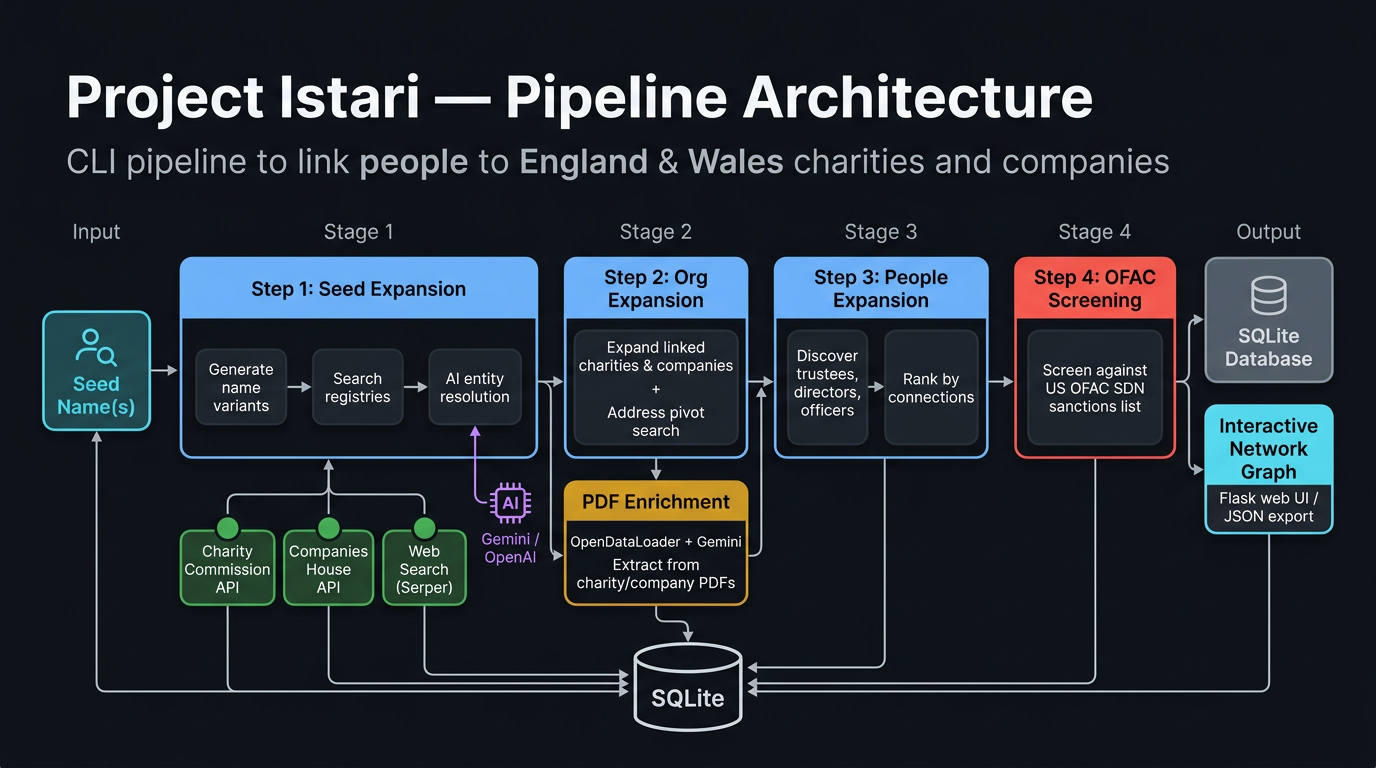
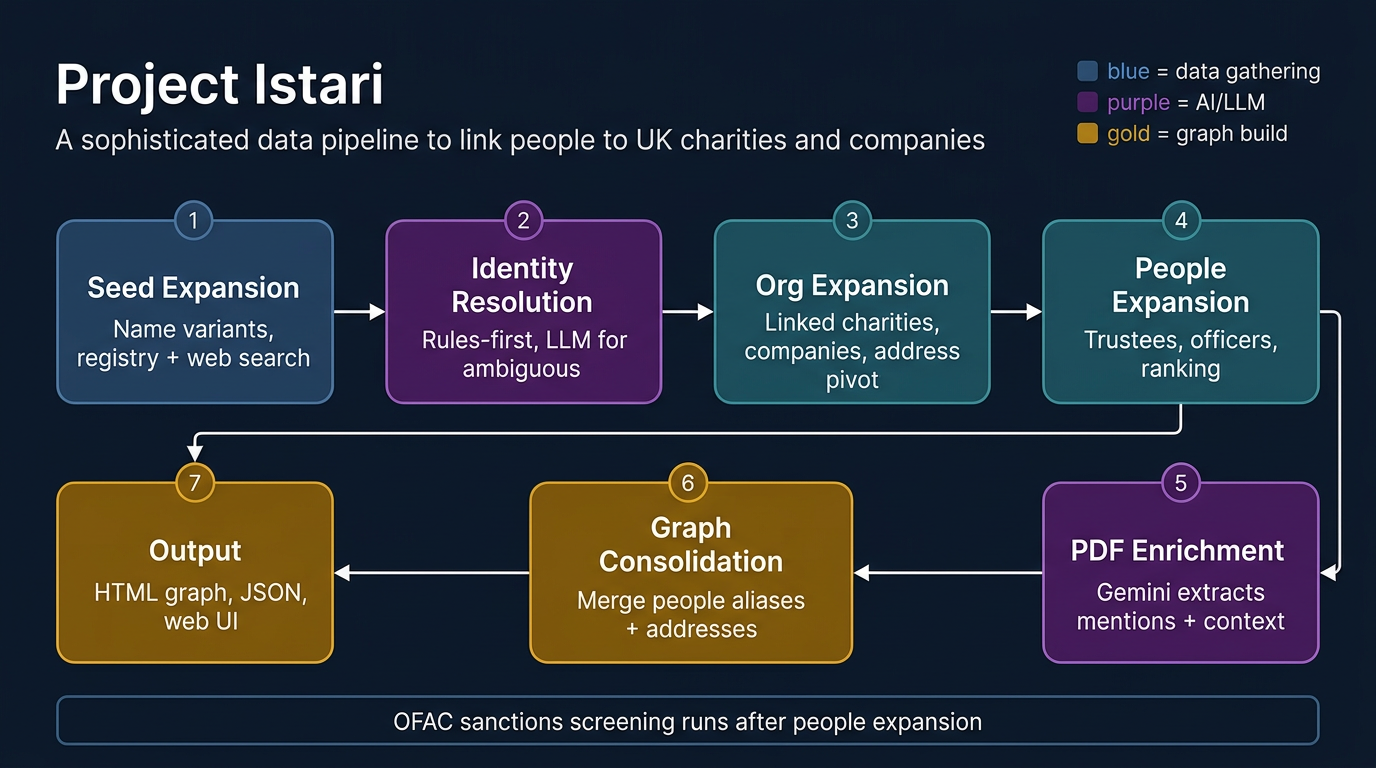
improved architecture diagram

diff --git a/README.md b/README.md
@@ -6,32 +6,38 @@ Given one or more **seed names**, Istari searches UK public registries, resolves
 
 ## Architecture
 
-![Pipeline Architecture](docs/architecture.svg)
+![Pipeline Architecture](docs/architecture.png)
 
-### Pipeline stages
+### How it works
 
-| Stage | What happens |
-|---|---|
-| **Step 1 — Seed Expansion** | Generate name variants from the seed, search the Charity Commission API, Companies House API, and web (Serper). A rules-first entity-resolution layer uses Gemini / OpenAI only for ambiguous candidates. |
-| **Step 2 — Org Expansion** | Walk linked charities and companies outward from Step 1 matches. An address-pivot search finds additional organisations registered at the same addresses. |
-| **Step 2b — PDF Enrichment** | Download charity/company PDFs (annual reports, accounts) and extract structured data via OpenDataLoader + Gemini, including connection phrasing and explanatory detail for mentions. |
-| **Step 3 — People Expansion** | Discover trustees, directors, secretaries, and officers for every scoped organisation. Rank people by the number and weight of their connections. |
-| **Step 4 — OFAC Screening** | Screen the ranked people list against the US Treasury OFAC SDN sanctions list. |
+1. **Seed Expansion** — Generate spelling and transliteration variants of the seed name, then search the Charity Commission, Companies House, and the web (Serper) for registry evidence.
 
-### Data sources & services
+2. **Identity Resolution** — Score each candidate match deterministically. Ambiguous mid-range candidates are sent to an LLM (Gemini or OpenAI) for a same-person judgement. Officers are keyed on name + birth month/year so distinct people with the same name stay separate.
 
-- **Charity Commission for England & Wales** — charity search, details, linked entities
-- **Companies House** — officer search, company profiles, appointments
-- **Gemini / OpenAI** — entity resolution, PDF extraction, name-variant generation
+3. **Org Expansion** — Walk linked charities and companies outward from confirmed matches. An address-pivot search discovers additional organisations registered at the same physical addresses.
+
+4. **People Expansion** — Pull trustees, directors, secretaries, and officers for every scoped organisation. People are ranked by the number and weight of their connections.
+
+5. **PDF Enrichment** — Download charity/company PDFs (annual reports, accounts) and extract structured mentions via Gemini, including the connection phrase and explanatory detail for each mention.
+
+6. **Graph Consolidation** — Merge person aliases and equivalent addresses across runs so shared edges collapse onto common nodes. Address merging uses deterministic normalisation first, with an LLM fallback for ambiguous near-matches.
+
+7. **Output** — Serve an interactive 4-lane HTML network graph, export JSON for the Netlify viewer, and screen ranked people against the OFAC SDN sanctions list.
+
+### Data sources
+
+- **Charity Commission for England & Wales** — charity search, trustee details, linked entities
+- **Companies House** — officer search, company profiles, appointments, date of birth
+- **Gemini / OpenAI** — entity resolution, address resolution, PDF extraction
 - **Serper** — web search for supplementary evidence
-- **OFAC SDN list** — sanctions screening
+- **OFAC SDN list** — US Treasury sanctions screening
 
 ### Storage & output
 
-- **SQLite** — all entities, relationships, resolution decisions, and run metadata
-- **Flask web UI** — serves an interactive network graph at `localhost:5000`
+- **SQLite** — entities, relationships, resolution decisions, and run metadata
+- **Flask web UI** — interactive network graph at `localhost:5000`
 - **JSON export** — graph payload for the Netlify viewer
-- **Graph rebuild** — merges person aliases and equivalent addresses across runs so shared edges collapse onto common nodes
+- **Graph rebuild** — cross-run merge of people and addresses into a single combined graph
 
 ## Quick start
 
@@ -58,18 +64,18 @@ python -m src.cli web-ui
 python scripts/rebuild_graph.py
 ```
 
-## CLI commands
+## CLI reference
 
 | Command | Description |
 |---|---|
 | `init-db` | Create the SQLite schema |
-| `step1-seed NAME` | Expand a single seed name |
-| `step2-orgs RUN_ID` | Expand connected organisations |
-| `pdf-enrich RUN_ID` | Enrich from charity/company PDFs |
-| `step3-people RUN_ID` | Expand connected people |
-| `step4-ofac RUN_ID` | OFAC sanctions screening |
 | `run-name NAME` | Full pipeline for one seed |
 | `run-seeds NAME [NAME ...]` | Full pipeline per seed + overlap |
+| `step1-seed NAME` | Seed expansion only |
+| `step2-orgs RUN_ID` | Org expansion only |
+| `pdf-enrich RUN_ID` | PDF enrichment only |
+| `step3-people RUN_ID` | People expansion only |
+| `step4-ofac RUN_ID` | OFAC screening only |
 | `rank` | Rank people by connections |
 | `export-network --run-id ID` | Export graph as JSON |
 | `web-ui` | Launch the Flask web UI |
